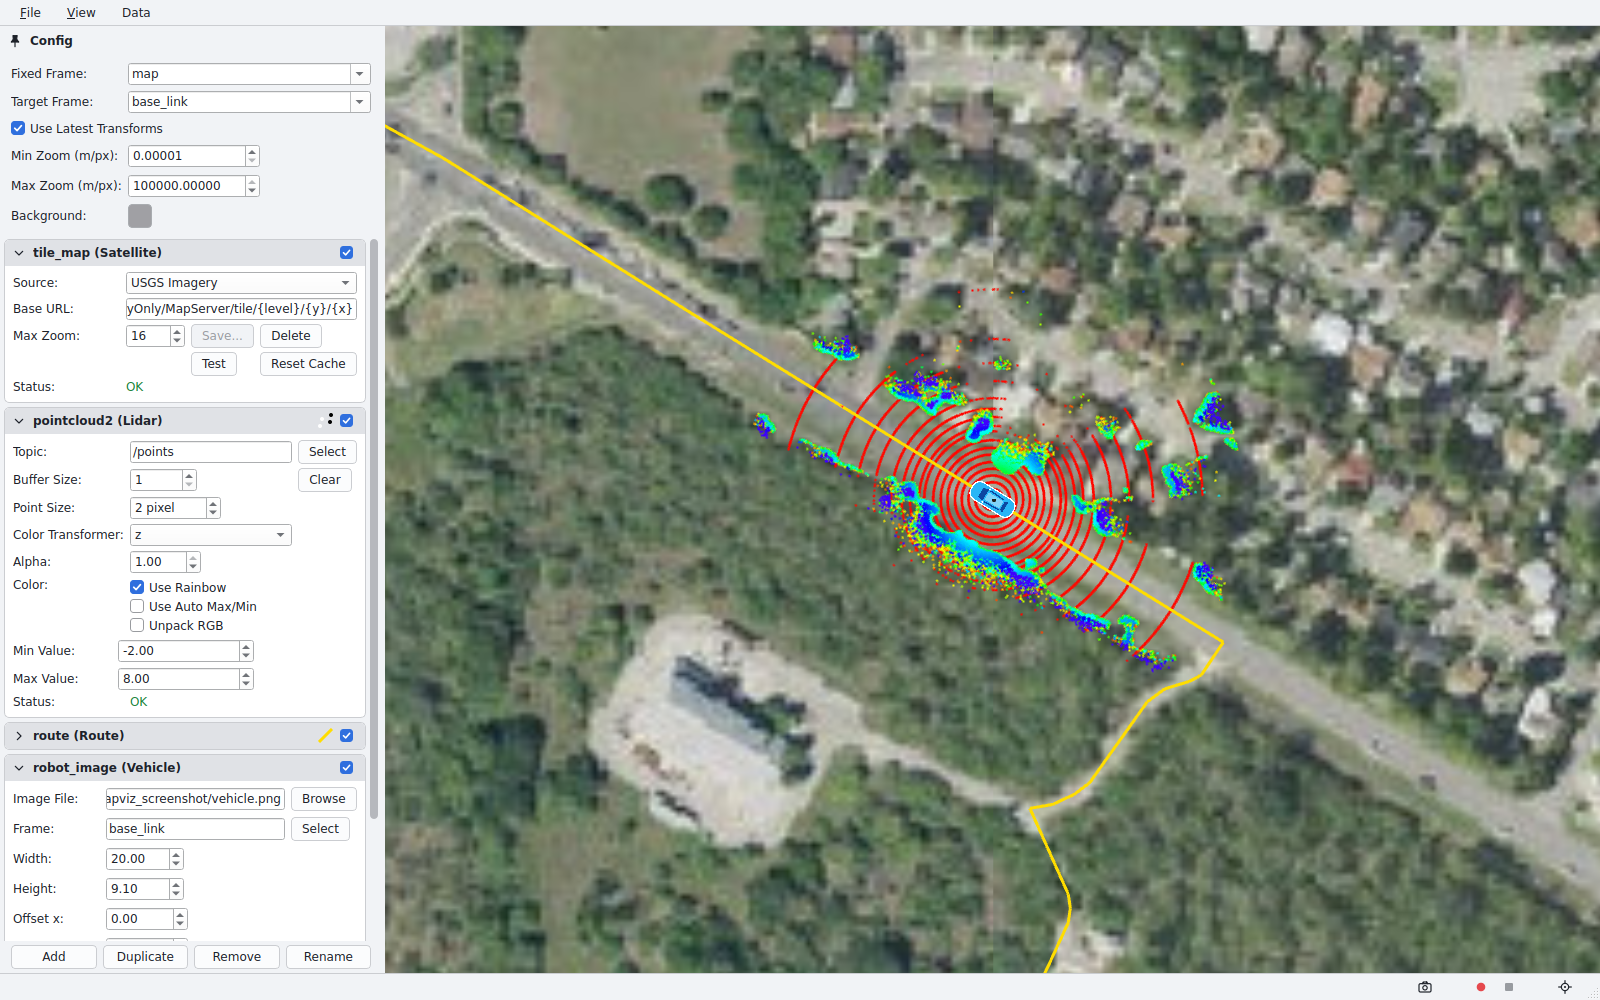
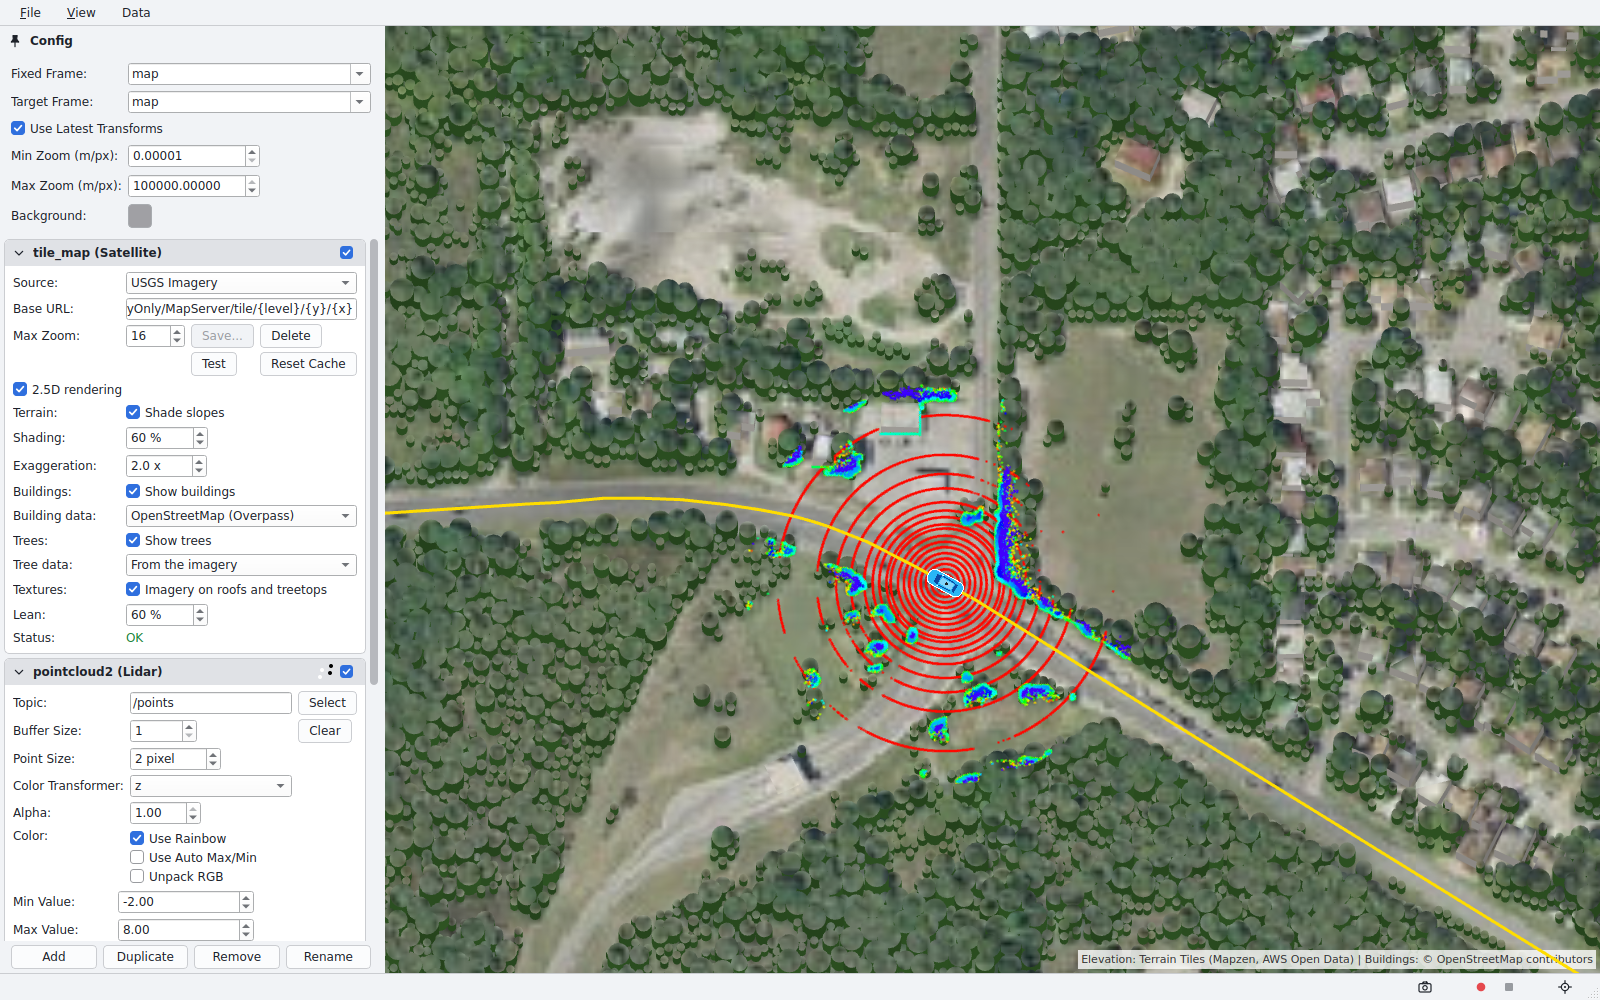
Updating documnetation

diff --git a/tile_map/src/terrain.cpp b/tile_map/src/terrain.cpp
@@ -42,7 +42,10 @@ namespace terrarium
 {
 const char URL_TEMPLATE[] =
   "https://s3.amazonaws.com/elevation-tiles-prod/terrarium/{level}/{x}/{y}.png";
-const char ATTRIBUTION[] = "Elevation: Terrain Tiles (Mapzen, AWS Open Data)";
+// The data sets behind Terrain Tiles each ask for their own credit (see
+// tilezen/joerd docs/attribution.md); this short form names Mapzen and the
+// USGS sources that cover the US, and the docs list the rest.
+const char ATTRIBUTION[] = "Elevation: Mapzen Terrain Tiles; USGS 3DEP, SRTM, GMTED2010 and others";
 
 std::vector<float> DecodeImage(const QImage & image)
 {

diff --git a/docs/_plugins/tile_map.md b/docs/_plugins/tile_map.md
@@ -2,6 +2,7 @@
 title: "Tile Map"
 description: "Projects a geo-referenced multi-resolution image tile map into the scene.  Map tiles can be obtained from [Bing Maps](https://www.bing.com/mapspreview) or any [WMTS Tile Service](http://www.opengeospatial.org/standards/wmts).  Pre-defined services that access [Stamen Design](http://maps.stamen.com/) (terrain, watercolor, and toner) are provided.  Custom or local WMTS map servers can also be specified.  Map data is cached to disk which enables some limited use completely offline.  The credit line that the selected source's terms of use require (for example \"© OpenStreetMap contributors, © CARTO\" for Carto) is drawn in the bottom-right corner of the map; for Bing it lists the imagery providers covering the area on screen, next to the Bing logo."
 image: "satellite.png"
+details: "**2.5D rendering.** Checking *2.5D rendering* adds depth to the map while keeping it top-down, so every other display still lines up with it.  Steep ground is shaded darker, using elevation from the free [AWS Terrain Tiles](https://registry.opendata.aws/terrain-tiles/).  Buildings and trees stand up out of the map, their tops drawn further up the screen the taller they are.  There is no light source and nothing casts a shadow, so the map reads the same however it is rotated.  Buildings and trees appear when zoomed in to 3 m and 1.5 m per pixel respectively.  Building outlines and heights come from [OpenStreetMap](https://www.openstreetmap.org/) through the [Overpass API](https://wiki.openstreetmap.org/wiki/Overpass_API), or from Stadia Maps vector tiles; each area is downloaded once and kept on disk for 30 days.  Trees are found in the imagery itself, or come from the woods and trees mapped in OpenStreetMap.  Roofs and treetops can show the imagery that was beneath them.\n\n![Tile Map with 2.5D rendering, showing satellite imagery with trees and buildings standing up from the map](/mapviz/assets/images/mapviz.png)\n\nThe on-map credit for the elevation data is a short form.  The data sets behind the Terrain Tiles each have their own wording, listed in the [Terrain Tiles attribution](https://github.com/tilezen/joerd/blob/master/docs/attribution.md); in the United States, for example, \"3DEP (formerly NED) and global GMTED2010 and SRTM terrain data courtesy of the U.S. Geological Survey.\""
 parameters:
   - name: "Source"
     description: "The name of source of the tile data."
@@ -11,4 +12,24 @@ parameters:
     description: "When the `Carto`, `Bing Maps (terrain)` or a `Stamen` source is selected, this field holds that service's API key instead of a URL; enter the key and click the `Save` button in order for tiles to be available.  Without a key, Carto serves an \"API KEY REQUIRED\" image for every tile.  To get a Carto key, sign up or log in at [carto.com/basemaps/apikey](https://carto.com/basemaps/apikey) and create a key in the dashboard (non-commercial use is free up to 5M requests per month, commercial use up to 1M).  You can get a Bing Maps Key from the [Microsoft Developer Network](https://msdn.microsoft.com/en-us/library/ff428642.aspx), and a Stadia Maps key (used by the Stamen sources) from [Stadia Maps](https://client.stadiamaps.com/).  Keys are saved in the Mapviz config as `carto_api_key`, `bing_api_key` and `stadia_api_key`."
   - name: "Max Zoom"
     description: "The maximum zoom level that will be used when requesting tiles."
+  - name: "2.5D rendering"
+    description: "Draws the depth cues described above.  Off by default; the settings below appear when it is on.  All of them are saved in the Mapviz config under `render_25d`."
+  - name: "Terrain"
+    description: "Darkens slopes in proportion to how steep they are, whichever way they face.  Flat ground is left as it is.  Saved as `terrain_shading`."
+  - name: "Shading"
+    description: "How dark the steepest slopes get, from 0 to 100 %.  Saved as `shading_strength` (0 to 1)."
+  - name: "Exaggeration"
+    description: "Multiplies terrain heights before shading, so gentle slopes still show.  Saved as `exaggeration`."
+  - name: "Buildings"
+    description: "Draws buildings standing up out of the map, at 3 m per pixel or closer.  Heights come from the `height` tag, else 3.5 m per `building:levels` plus 1 m, else a typical height for the kind of building.  Saved as `buildings`."
+  - name: "Building data"
+    description: "*OpenStreetMap (Overpass)* needs no key, but a new area can take up to a minute to load on a busy day.  *Stadia vector tiles* uses the Stadia API key entered on a Stamen source.  Saved as `building_source` (`overpass` or `stadia`).  A different Overpass server can be set in the config as `overpass_url`."
+  - name: "Trees"
+    description: "Draws trees standing up out of the map, at 1.5 m per pixel or closer.  Saved as `trees`."
+  - name: "Tree data"
+    description: "*From the imagery* finds tree canopy in satellite or aerial photos and fills it with round crowns; map-style sources have no canopy to find.  *OpenStreetMap* uses mapped woods, forests and single trees, from the same download as the buildings.  Saved as `tree_source` (`imagery` or `osm`)."
+  - name: "Textures"
+    description: "Drapes the imagery over roofs and treetops, lifted with them, instead of drawing them in plain colours.  Where the imagery for a roof hasn't loaded, it is drawn plain.  Saved as `imagery_textures`."
+  - name: "Lean"
+    description: "How far the top of a building or tree moves up the screen, as a percentage of its height.  Saved as `lean` (1.0 is 100 %)."
 ---

diff --git a/README.md b/README.md
@@ -3,7 +3,7 @@ Mapviz
 
 Mapviz is a [ROS](http://www.ros.org/) based visualization tool with a plug-in system similar to [RViz](https://github.com/ros2/rviz) focused on visualizing 2D data.
 
-![Mapviz showing USGS satellite imagery from the Tile Map plugin, a lidar point cloud, a route, and a vehicle icon](docs/assets/images/mapviz.png)
+![Mapviz showing USGS satellite imagery from the Tile Map plugin in 2.5D, with trees standing up from the map, a lidar point cloud, a route, and a vehicle icon](docs/assets/images/mapviz.png)
 
 Usage
 -----
@@ -67,7 +67,7 @@ Plugin | Subscribes to | Description
 `string` | `std_msgs/String`<br>`marti_common_msgs/StringStamped` | Shows the latest text message at a fixed spot on the map.
 `textured_marker` | `marti_visualization_msgs/TexturedMarker`<br>`marti_visualization_msgs/TexturedMarkerArray` | Draws images that marker messages place on the map.
 `tf_frame` | `tf` tree | Draws where a TF frame is, with an optional trail as it moves.
-`tile_map` | None | Shows map or satellite imagery from tile servers such as OpenStreetMap, Carto, Stadia, Bing, or USGS.
+`tile_map` | None | Shows map or satellite imagery from tile servers such as OpenStreetMap, Carto, Stadia, Bing, or USGS, optionally in 2.5D with shaded terrain and buildings and trees that stand up from the map.
 
 Build Status
 ------

diff --git a/docs/_layouts/plugin.md b/docs/_layouts/plugin.md
@@ -12,6 +12,12 @@ layout: default
 ![]({{ site.baseurl | append: '/assets/images/' }}{{ page.image }})
 {% endif %}
 
+{% comment %}Longer explanation shown on the plugin's own page only, not in
+the table on the Plugins page.{% endcomment %}
+{% if page.details %}
+{{ page.details }}
+{% endif %}
+
 ## Parameters
 
 {% if page.parameters %}
